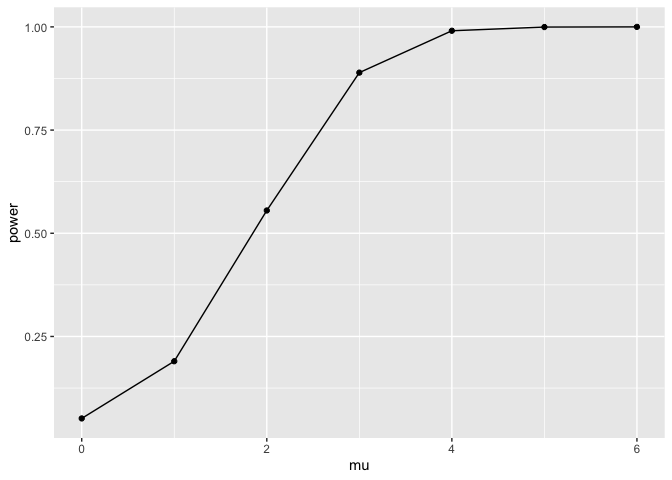
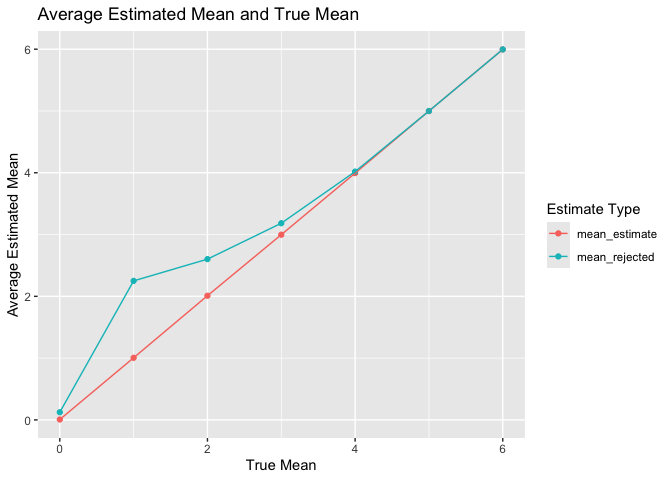
Finished!

diff --git a/p8105_hw5_fa2818.md b/p8105_hw5_fa2818.md
@@ -16,6 +16,8 @@ library(tidyverse)
     ## ✖ dplyr::lag()    masks stats::lag()
     ## ℹ Use the conflicted package (<http://conflicted.r-lib.org/>) to force all conflicts to become errors
 
+# Problem 1
+
 ``` r
 birthday_sim = function(n) {
   birthdays = sample(1:365, size = n, replace = TRUE)
@@ -41,7 +43,12 @@ birthday_results =
 ``` r
 birthday_results |>
   ggplot(aes(x = group_size, y = probability)) +
-  geom_line() 
+  geom_line() + 
+  labs(
+  title = "Probability of at least two People Sharing a Birthday",
+  x = "Group Size",
+  y = "Probability of a Shared Birthday"
+)
 ```
 
 ![](p8105_hw5_fa2818_files/figure-gfm/unnamed-chunk-4-1.png)<!-- --> The
@@ -85,10 +92,21 @@ longitudinal_df |>
              group = subject, color = arm)) +
   geom_point() +
   geom_line() +
-  facet_grid(.~arm) 
+  facet_grid(.~arm) + labs(
+  title = "Outcomes Over Time for Control (con) and Experimental (exp) Arm",
+  x = "Week",
+  y = "Observation Value",
+  color = "Study Arm"
+)
 ```
 
-![](p8105_hw5_fa2818_files/figure-gfm/unnamed-chunk-6-1.png)<!-- -->
+![](p8105_hw5_fa2818_files/figure-gfm/unnamed-chunk-6-1.png)<!-- --> The
+control group’s values are generally consistent over the eight weeks,
+while the experimental group’s observations generally increase. There is
+variation between individual participants in both groups, and the amount
+of variation is about the same for both groups.
+
+# Problem 3
 
 ``` r
 sim_t_test = function(mu) {
@@ -100,24 +118,6 @@ t.test(sim_data$x, mu = 0) |>
     select(estimate, p.value)
 }
 ```
-
-``` r
-sim_t_test(0)
-```
-
-    ## # A tibble: 1 × 2
-    ##   estimate p.value
-    ##      <dbl>   <dbl>
-    ## 1     1.36   0.204
-
-``` r
-sim_t_test(3)
-```
-
-    ## # A tibble: 1 × 2
-    ##   estimate p.value
-    ##      <dbl>   <dbl>
-    ## 1     2.90  0.0120
 
 ``` r
 sim_results =
@@ -145,8 +145,50 @@ power_results =
 power_results |>
   ggplot(aes(x = mu, y = power)) +
   geom_point() +
-  geom_line()
+  geom_line() +
+  labs(
+  title = "Relationship between Power and True Mean",
+  x = "True Mean",
+  y = "Power"
+)
 ```
 
-![](p8105_hw5_fa2818_files/figure-gfm/unnamed-chunk-10-1.png)<!-- --> As
-the population mean increases, the power increaes.
+![](p8105_hw5_fa2818_files/figure-gfm/unnamed-chunk-9-1.png)<!-- --> As
+the population mean increases, the power increases. This makes sense,
+since larger differences between the true mean and the null hypothesis
+mean of zero are easier to see.
+
+``` r
+estimate_results =
+  sim_results |>
+  group_by(mu) |>
+  summarize(
+    mean_estimate = mean(estimate),
+    mean_rejected = mean(estimate[reject])
+  )
+
+estimate_results |>
+  pivot_longer(
+    mean_estimate:mean_rejected,
+    names_to = "estimate_type",
+    values_to = "average_estimate"
+  ) |>
+  ggplot(aes(x = mu, y = average_estimate, color = estimate_type)) +
+  geom_point() +
+  geom_line()  +
+  labs(
+    title = "Average Estimated Mean and True Mean",
+    x = "True Mean",
+    y = "Average Estimated Mean",
+    color = "Estimate Type"
+  ) 
+```
+
+![](p8105_hw5_fa2818_files/figure-gfm/unnamed-chunk-10-1.png)<!-- -->
+The average estimated mean across all simulations is close to the true
+mean. However, when only looking at samples where the null hypothesis
+was rejected, the average estimate is generally higher than the true
+mean, especially for smaller positive values of mu. This is because
+samples with larger estimates are more likely to reject the null
+hypothesis. As the true mean increases, the difference gets smaller
+since more samples reject the null hypothesis.
